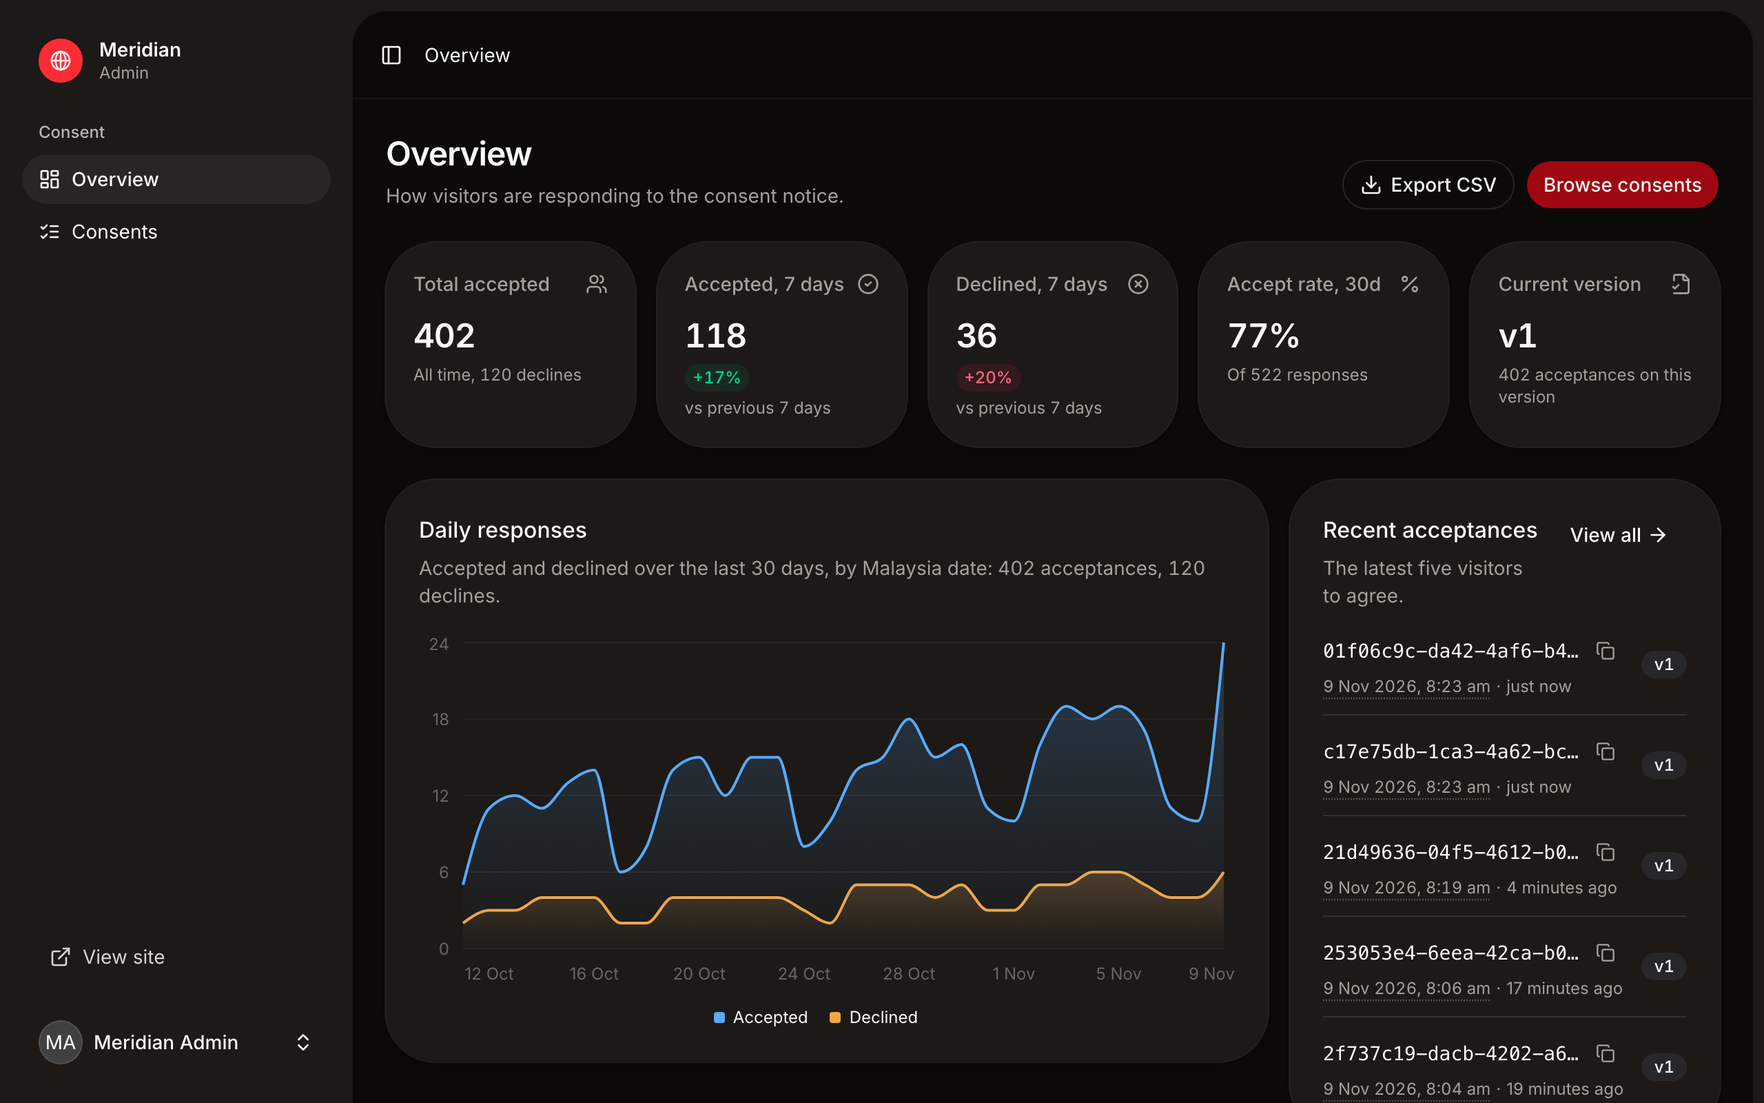
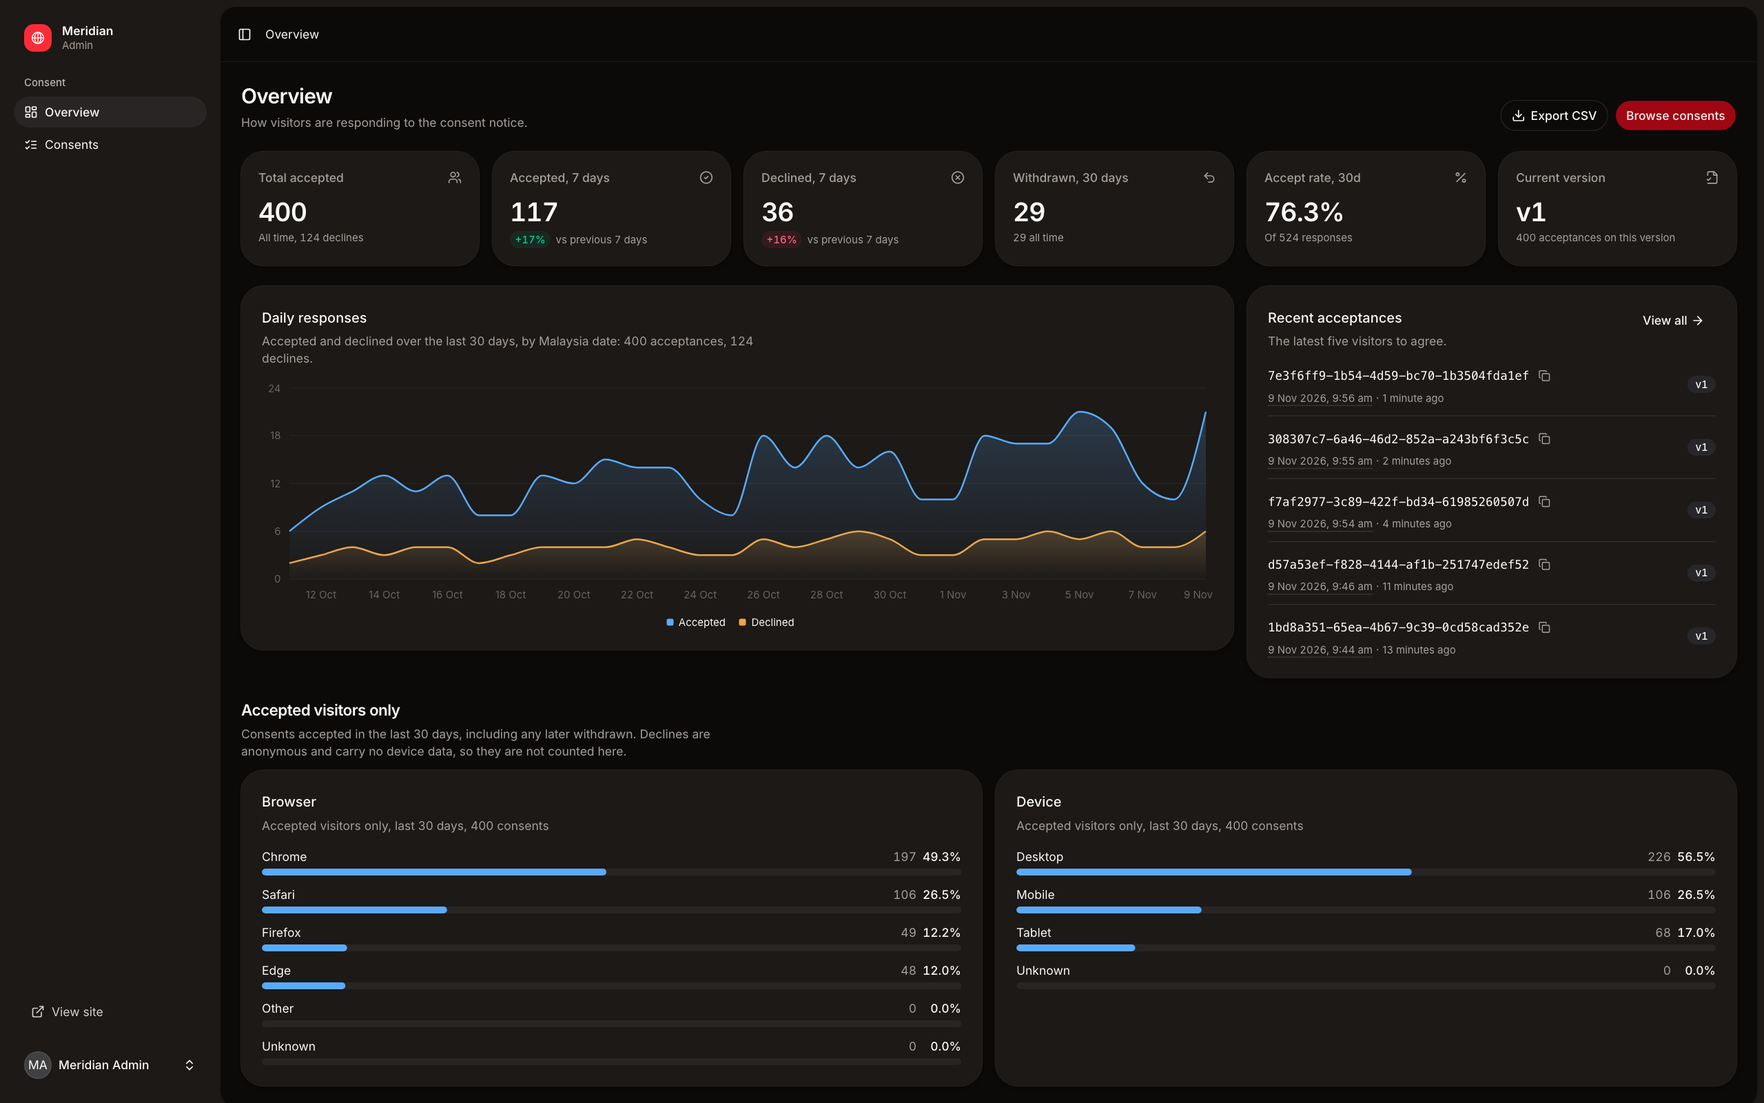
Make the README match how consent records work now

diff --git a/README.md b/README.md
@@ -21,11 +21,12 @@
   <img alt="Inertia 3" src="https://img.shields.io/badge/Inertia-3-9553E9?logo=inertia&logoColor=white">
   <img alt="React 19" src="https://img.shields.io/badge/React-19-61DAFB?logo=react&logoColor=black">
   <img alt="MySQL 8.4" src="https://img.shields.io/badge/MySQL-8.4-4479A1?logo=mysql&logoColor=white">
-  <img alt="Pest: 138 tests" src="https://img.shields.io/badge/Pest-138%20tests-F28D1A">
-  <img alt="Playwright: 74 tests" src="https://img.shields.io/badge/Playwright-74%20tests-2EAD33">
+  <img alt="Pest: 225 tests" src="https://img.shields.io/badge/Pest-225%20tests-F28D1A">
+  <img alt="Playwright: 92 tests" src="https://img.shields.io/badge/Playwright-92%20tests-2EAD33">
 </p>
 
 <p align="center">
+  <a href="#required-vs-bonus">Required vs bonus</a> ·
   <a href="#see-it-work">See it work</a> ·
   <a href="#try-to-break-it">Try to break it</a> ·
   <a href="#run-it-locally">Run it locally</a> ·
@@ -47,16 +48,28 @@ Sign in to the admin with `admin@meridian.test` and the password I'm sharing sep
 
 Every case ID below is written up in [`tests/cases/`](tests/cases), with the brief rule it proves.
 
-| Brief                                                                          | Where it lives                                                                                 | Proved by                          |
-| ------------------------------------------------------------------------------ | ---------------------------------------------------------------------------------------------- | ---------------------------------- |
-| 4 pages, mobile friendly                                                       | `/`, `/about`, `/privacy`, `/terms`. Checked from 320px up, light and dark, and right to left. | CON-001, CON-002, CON-003          |
-| Consent box on first visit, page can't scroll                                  | The server decides, so the scroll lock is in the first HTML, before any JavaScript runs.       | CON-010, CON-020, CON-022          |
-| Exact copy, with links to Terms and Privacy                                    | `resources/js/components/site/consent/consent-dialog.tsx`                                      | CON-011, CON-012                   |
-| Accept: cookie with GUID, time, version 1, lasts 1 year, saved to the database | `consent` cookie plus a row in `consents`                                                      | CON-030, CON-031, CON-032          |
-| Box stays away until the cookie expires or is gone                             | Checked on the server on every page                                                            | CON-033, CON-040, CON-041          |
-| Decline: cookie with the time, lasts 1 day                                     | `consent_declined` cookie                                                                      | CON-050, CON-051, CON-052          |
-| Bonus: secured admin portal                                                    | `/admin`: overview, 30-day chart, searchable table, CSV export                                 | ADM-002, ADM-020, ADM-030, ADM-040 |
-| Database scripts                                                               | `database/migrations`, plus `database/schema.sql` as plain SQL                                 | Pest runs on MySQL 8.4 in CI       |
+| Brief                                                                          | Where it lives                                                                                                                        | Proved by                                                     |
+| ------------------------------------------------------------------------------ | ------------------------------------------------------------------------------------------------------------------------------------- | ------------------------------------------------------------- |
+| 4 pages, mobile friendly                                                       | `/`, `/about`, `/privacy`, `/terms`. Checked from 320px up, light and dark, and right to left.                                        | CON-001, CON-002, CON-003                                     |
+| Consent box on first visit, page can't scroll                                  | The server decides, so the scroll lock is in the first HTML, before any JavaScript runs.                                              | CON-010, CON-020, CON-022                                     |
+| Exact copy, with links to Terms and Privacy                                    | `resources/js/components/site/consent/consent-dialog.tsx`                                                                             | CON-011, CON-012                                              |
+| Accept: cookie with GUID, time, version 1, lasts 1 year, saved to the database | `consent` cookie plus a row in `consents`                                                                                             | CON-030, CON-031, CON-032                                     |
+| Box stays away until the cookie expires or is gone                             | Checked on the server on every page, and against the database                                                                         | CON-033, CON-040, CON-041, CON-072                            |
+| Decline: cookie with the time, lasts 1 day                                     | `consent_declined` cookie                                                                                                             | CON-050, CON-051, CON-052                                     |
+| Bonus: secured admin portal                                                    | `/admin`: overview, 30-day chart, browser and device breakdowns, searchable table with a status filter, a page per record, CSV export | ADM-002, ADM-020, ADM-030, ADM-040, ADM-043, ADM-045, ADM-049 |
+| Database scripts                                                               | `database/migrations`, plus `database/schema.sql` as plain SQL                                                                        | Pest runs on MySQL 8.4 in CI                                  |
+
+## Required vs bonus
+
+- **Required by the brief:** the four pages, the consent box, the exact copy, the Accept and Decline cookies, the database row and the database scripts.
+- **Bonus in the brief:** the secured admin portal.
+- **Extras I added beyond the brief:**
+  - event history for each consent, shown on its own page in the admin
+  - withdrawal, when someone declines after accepting
+  - coarse device data, kept on accept only
+  - browser and device breakdowns on the overview
+  - the database check that stops forged cookies
+  - HttpOnly on both cookies
 
 ## See it work
 
@@ -71,7 +84,7 @@ The admin overview, with seeded demo data:
 <p align="center">
   <picture>
     <source media="(prefers-color-scheme: dark)" srcset="docs/readme/admin-overview-dark.png">
-    <img src="docs/readme/admin-overview-light.png" alt="Admin overview with accept and decline totals, a 30-day chart and the latest acceptances" width="100%">
+    <img src="docs/readme/admin-overview-light.png" alt="Admin overview with accept, decline and withdrawal totals, a 30-day chart, the latest acceptances, and browser and device breakdowns" width="100%">
   </picture>
 </p>
 
@@ -81,20 +94,24 @@ The admin overview, with seeded demo data:
 
 I ran each of these on a local copy on 9 Nov 2026. To edit a cookie, open DevTools, then Application, then Cookies.
 
-| Try this                                             | What happens                                                          |
-| ---------------------------------------------------- | --------------------------------------------------------------------- |
-| Scroll with the box open                             | The page stays at 0px.                                                |
-| Press Esc, or click outside the box                  | The box stays open.                                                   |
-| Press Tab over and over                              | Focus stays on the box's two links and two buttons.                   |
-| Load a page with JavaScript off                      | `<html>` already has the `consent-locked` class and scrolling is off. |
-| Change the year in `accepted_at` to 2099             | The box comes back.                                                   |
-| Set the date to over a year ago                      | The box comes back.                                                   |
-| Change the GUID to `not-a-guid`                      | The box comes back.                                                   |
-| Replace the whole value with `hello`                 | The box comes back.                                                   |
-| Run locally with `CONSENT_VERSION=2` and a v1 cookie | The box comes back.                                                   |
-| Accept, reopen with "Cookie settings", accept again  | Same GUID, still one row.                                             |
-| Open `/admin` signed out                             | You land on the login page.                                           |
-| Open `/register`                                     | 404. Nobody can sign up.                                              |
+| Try this                                                                             | What happens                                                          |
+| ------------------------------------------------------------------------------------ | --------------------------------------------------------------------- |
+| Scroll with the box open                                                             | The page stays at 0px.                                                |
+| Press Esc, or click outside the box                                                  | The box stays open.                                                   |
+| Press Tab over and over                                                              | Focus stays on the box's two links and two buttons.                   |
+| Load a page with JavaScript off                                                      | `<html>` already has the `consent-locked` class and scrolling is off. |
+| Change the year in `accepted_at` to 2099                                             | The box comes back.                                                   |
+| Set the date to over a year ago                                                      | The box comes back.                                                   |
+| Change the GUID to `not-a-guid`                                                      | The box comes back.                                                   |
+| Keep a real GUID but move `accepted_at` back an hour                                 | The box comes back.                                                   |
+| Forge a cookie with a valid GUID and no row                                          | The box comes back.                                                   |
+| Accept, decline, then restore the old `consent` cookie and delete `consent_declined` | The box comes back.                                                   |
+| Replace the whole value with `hello`                                                 | The box comes back.                                                   |
+| Run locally with `CONSENT_VERSION=2` and a v1 cookie                                 | The box comes back.                                                   |
+| Accept, reopen with "Cookie settings", accept again                                  | Same GUID, still one row.                                             |
+| Type a fresh time into `consent_declined` by hand                                    | The box stays away for up to a day. Declines have no row to check.    |
+| Open `/admin` signed out                                                             | You land on the login page.                                           |
+| Open `/register`                                                                     | 404. Nobody can sign up.                                              |
 
 <p align="right">(<a href="#readme-top">back to top</a>)</p>
 
@@ -116,20 +133,56 @@ Log in at http://localhost:8000/login with `admin@meridian.test` / `password`.
 
 ## How the consent works
 
+How the parts connect:
+
 ```mermaid
-flowchart TD
-    A[Visitor opens any public page] --> B{Valid consent cookie<br/>or decline cookie?}
-    B -- Yes --> C[Page renders, no box]
-    B -- No --> D[Page renders with the box open<br/>and scrolling locked]
-    D -- Accept --> E[POST /consent/accept]
-    D -- Decline --> F[POST /consent/decline]
-    E --> G[Server writes the consents row<br/>and sets consent for 365 days]
-    F --> H[Server counts the decline<br/>and sets consent_declined for 1 day]
-    G --> C
-    H --> C
+flowchart LR
+    B["Browser<br/>consent and consent_declined cookies"]
+    AP["Admin portal<br/>overview, table, record page, CSV"]
+
+    subgraph Laravel
+        R["Public pages and<br/>POST /consent/accept, /consent/decline"]
+        M["ConsentManager<br/>checks cookies, writes records"]
+        A["/admin routes<br/>sign-in required"]
+    end
+
+    subgraph MySQL
+        C[("consents")]
+        E[("consent_events")]
+        X[("consent_declines")]
+    end
+
+    B -- "cookies on each request" --> R
+    R --> M
+    M -- "look up, accept, withdraw" --> C
+    M -- "accepted, withdrawn" --> E
+    M -- "anonymous count" --> X
+    AP --> A
+    A -- "read" --> MySQL
 ```
 
-**The cookies.** Both are set by the server and are left unencrypted, so you can read them in DevTools.
+What happens on each visit:
+
+```mermaid
+flowchart TD
+    A[Visitor opens any public page] --> B{"Consent cookie well formed,<br/>and a live row matches<br/>its GUID, time and version?"}
+    B -- Yes --> C[Page renders, no box]
+    B -- No --> D{"Decline cookie<br/>under 1 day old?"}
+    D -- Yes --> C
+    D -- No --> E[Page renders with the box open<br/>and scrolling locked]
+    E -- Accept --> F[POST /consent/accept]
+    E -- Decline --> G[POST /consent/decline]
+    F --> H["New GUID, consents row and accepted event.<br/>Sets consent for 365 days"]
+    G --> I{"Holding a verified<br/>acceptance?"}
+    I -- Yes --> J[Marks that row withdrawn<br/>and writes a withdrawn event]
+    I -- No --> K[Adds to the anonymous decline count]
+    J --> L["Sets consent_declined for 1 day<br/>and clears consent"]
+    K --> L
+    H --> C
+    L --> C
+```
+
+**The cookies.** Both are set by the server and are left unencrypted, so you can read them in DevTools. Both are HttpOnly, so page scripts can't read them. The front end gets the choice from the page props instead.
 
 ```
 consent           {"guid":"8f0c…","accepted_at":"2026-11-08T09:30:15Z","version":1}   expires in 365 days
@@ -138,14 +191,21 @@ consent_declined  2026-11-08T09:30:15Z                                          
 
 The `consent` value is URL-encoded in transit because it contains commas. Tick "Show URL-decoded" in Chrome's DevTools to read it as above.
 
-**When the box comes back.** The server treats a cookie as missing when it has expired or when it doesn't check out. A cookie doesn't check out when:
+**When the box comes back.** The server treats a cookie as missing when it has expired or when it doesn't check out. A `consent` cookie doesn't check out when:
 
 - it isn't valid JSON,
 - the GUID isn't a v4 UUID,
 - the time is in the future or over a year old,
-- or the version is older than the current one.
+- the version is older than the current one,
+- no row in `consents` has that GUID,
+- that row has been withdrawn,
+- or the row's time (to the second) or version differs from the cookie's.
 
-So a hand-edited cookie can't hide the box.
+So a hand-edited `consent` cookie can't hide the box while the database is up.
+
+Two limits. A real, live cookie copied to another browser still works, because the GUID is the only proof. And a hand-typed `consent_declined` can hide the box for up to a day. Declines are anonymous, so there's no row to check. It records no consent.
+
+**Changing your mind.** Declining while holding a valid acceptance marks that record withdrawn and writes an event. The `consent` cookie is cleared, and putting it back doesn't help because the row is no longer live. Accepting later issues a new GUID and a new row.
 
 **Versions.** `CONSENT_VERSION` in `.env` is the version of the notice. Raise it to 2 and every visitor who accepted version 1 sees the box again. That's how you'd handle a change to the Privacy Statement.
 
@@ -157,9 +217,15 @@ So a hand-edited cookie can't hide the box.
 
 ## Decisions and trade-offs
 
-- **The server owns the decision.** The browser never creates consent cookies. The GUID, time and version come from the server, and anything the client sends is ignored. This keeps the cookie and the database row in step.
-- **Accepting twice makes one row.** A retry or a double click reuses the GUID from a valid cookie, and the insert is `firstOrCreate` on the GUID.
+- **The server owns the decision.** The browser never creates consent cookies. The GUID, time and version come from the server. A cookie the browser sends back counts only if a live row agrees with it, and what gets stored comes from the server or that row. This keeps the cookie and the database row in step.
+- **Accepting twice makes one row.** The buttons turn off while a choice is saving. After that, accepting with a verified cookie keeps its GUID and writes nothing.
 - **Declines are counted, never identified.** The brief only asks for a cookie on decline. I also store an anonymous count (version and time only, no GUID, no IP), so the admin can see the accept rate without tracking people who said no.
+- **A withdrawal isn't a decline in the count.** That person already has a record, so the record changes and the anonymous decline count doesn't.
+- **The version stays 1,** as the brief says. On a live product, adding device data would be a reason to raise it and ask everyone again.
+- **No preference centre.** The site sets no optional cookies, so toggles would control nothing. The brief also fixes the choice as Accept and Decline.
+- **Device data is three coarse fields:** device type, browser family and OS family. The server works them out on accept only. The raw user agent is never kept in the consent records. The breakdowns cover accepted visitors only, because declines carry no device data. iPadOS can report as macOS Desktop, so some iPads count as Macs.
+- **Database outage.** If the row lookup fails, a cookie that passes the format checks is trusted, so readers aren't locked out. To be honest about how far that goes: with `SESSION_DRIVER=database`, which is what this app uses, the page returns 500 anyway because sessions fail first. I tried both drivers with the database down. The fallback only helps on another session driver.
+- **Sessions still store IP and user agent.** Laravel's database session driver writes the raw IP and user agent to the `sessions` table for every visitor, including people who decline. The consent records don't hold them, but that table does. The fix is to move to a different session driver, such as Redis or cookies.
 - **Times are stored in UTC and shown in Malaysia time.** The admin's date filters and chart use Kuala Lumpur days, so picking 12 Oct means 12 Oct as the admin sees it.
 - **The admin can't be signed up for.** Registration is turned off. Login is rate limited to 5 tries a minute, and 2FA and passkeys are available in settings.
 - **Accept and decline are rate limited** at 30 a minute per IP (`CONSENT_THROTTLE`).
@@ -169,8 +235,8 @@ So a hand-edited cookie can't hide the box.
 
 Last full run on 9 Nov 2026: every test below passed.
 
-- **Pest:** 138 tests (1,125 assertions) cover every consent rule and the admin portal. Time travel checks the 1-year and 1-day expiry.
-- **Playwright:** 74 tests cover consent, scroll lock, accessibility (axe), phone layout and the admin in desktop Chrome. The consent and phone-layout tests also run on an emulated Pixel 7. One test runs the whole story above: accept on the site, log in as admin, and find that cookie's GUID in the table.
+- **Pest:** 225 tests (1,692 assertions) cover every consent rule and the admin portal. Time travel checks the 1-year and 1-day expiry.
+- **Playwright:** 92 tests cover consent, scroll lock, accessibility (axe), phone layout and the admin in desktop Chrome. The consent and phone-layout tests also run on an emulated Pixel 7. One test runs the whole story above: accept on the site, log in as admin, and find that cookie's GUID in the table.
 - **Test cases:** `tests/cases/*.yaml` lists every case and which brief rule it proves.
 - **CI:** GitHub Actions runs lint, PHPStan, Pest on SQLite and MySQL 8, and the Playwright suite on every push.
 
@@ -185,11 +251,11 @@ pnpm test:e2e                                     # Playwright (starts the app i
 ## Where things are
 
 ```
-app/Support/Consent/        reading, checking and writing the consent cookies
+app/Support/Consent/        checking cookies against the database, withdrawals, device parsing
 app/Http/Middleware/        shares the consent state with every public page
-app/Http/Controllers/       consent accept and decline, admin overview and table
+app/Http/Controllers/       consent accept and decline, admin overview, table and record page
 resources/js/pages/site/    the four public pages
-resources/js/pages/admin/   admin overview and consents table
+resources/js/pages/admin/   admin overview, consents table and record page
 config/consent.php          version, cookie names, lifetimes, rate limit
 database/schema.sql         the schema as plain SQL
 tests/Feature/              Pest
@@ -198,7 +264,6 @@ tests/e2e/                  Playwright
 
 ## What I'd add next
 
-- **Record withdrawals.** Choosing Decline after Accept clears the cookie, but the old acceptance row stays as it is. I'd add a `withdrawn_at` column so the record shows the change of mind.
 - **Admin roles.** Any verified user is an admin today. That's safe only because registration is off.
 - **Server-side rendering.** The page needs JavaScript to show content. Inertia SSR would make it work without it.
 - **Bahasa Malaysia.** The layout is ready for translation, but the copy is English only.
